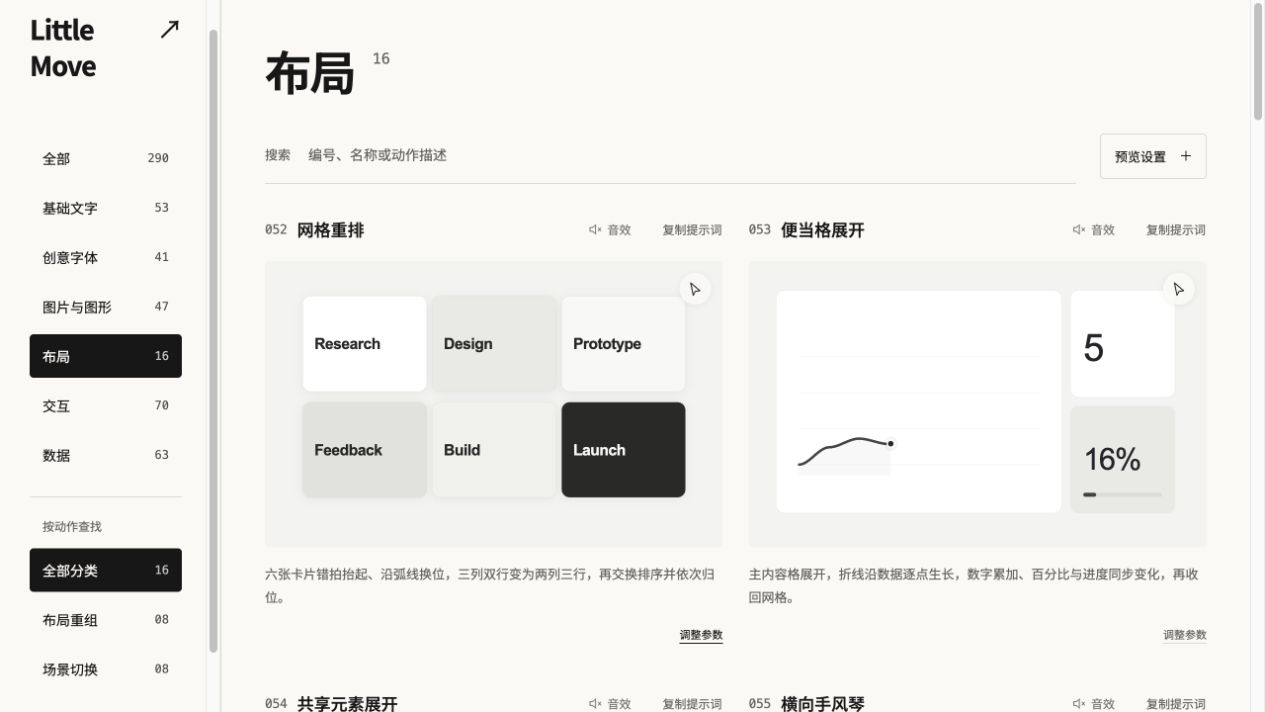
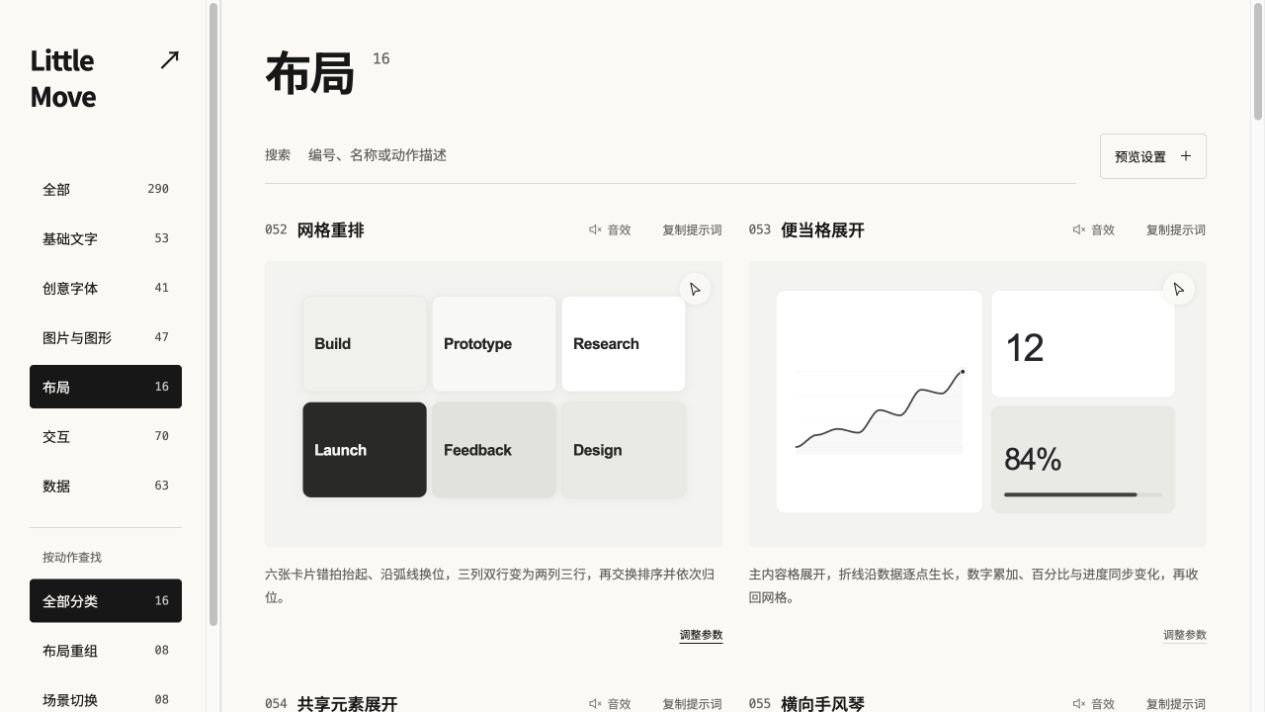
Present Little Move as a browsable product with eight real online screenshots

diff --git a/README.md b/README.md
@@ -1,26 +1,81 @@
 # Little Move
 
-一个可以看、可以调、可以复用的动效词典，收录 **290 个 Demo、30 个动作分类**，覆盖文字、图片与图形、布局、控件交互和数据变化。
+**先看动效，再说需求。**
 
-适合做网站时查找动作表达，也适合剪辑时按编号选择动效、复制简短提示词，再用 Remotion 组件生成视频素材。
+一个可以直接打开的动效词典。把“想要那种感觉”变成看得见的参考：**290 个 Demo、30 个动作分类**，覆盖文字、图片与图形、布局、控件和数据。
 
-![Little Move 网站真实预览](docs/images/site-preview.png)
+[**打开在线动效库 ↗**](https://belalee-ai.github.io/little-move/) · [看效果](#效果一览) · [怎么用](#三步找到你要的动作) · [本地运行](docs/GETTING-STARTED.md) · [完整目录](CATALOG.md)
 
-*网站实际截图，2026-10-21。示例文字、配色和数据可调整。*
+![Little Move 在线动效库](docs/images/site-preview.png)
 
-## 第一次使用
+*浏览器中的真实页面。打开链接即可查看，无需注册或安装。*
 
-这是一个本地运行的网页应用，使用 React、Vite 和 Remotion，不是浏览器插件或已安装的 Agent Skill。
+## 什么时候用
 
-准备 Node.js 22.12+（本次实测 Node.js 24）和 npm。下载依赖时需要联网；没有必须填写的 API Key、模型账号或数据库。
+| 你在做什么 | 可以怎样使用 Little Move |
+| --- | --- |
+| 做网页或产品原型 | 对比按钮、输入框、拖动、布局切换的反馈方式，找到能表达状态变化的动作。 |
+| 做视频或剪辑素材 | 为标题、图片转场、数字变化和语音波形选参考，再用本地 Remotion 组件生成素材。 |
+| 和 AI 助手描述需求 | 复制编号、名称和简短动作说明，让“弹一点、流畅一点”有具体参照。 |
+| 和团队讨论方案 | 用同一张卡片对齐动作，而不是只用文字猜彼此的意思。 |
 
-把下面这段直接发给 Codex、Claude Code 或其他有终端权限的助手：
+## 三步找到你要的动作
 
-> 请下载 https://github.com/belalee-ai/little-move 到一个新目录。
-> 先阅读 README，检查 Node.js 版本，再运行 npm ci 和 npm run dev。
-> 打开终端显示的本地地址，不要覆盖已有文件。
+**1 · 看**　按分区或动作筛选，也可以直接搜编号、名称、动作描述。每个 Demo 的编号固定，筛选后不会变化。
 
-也可以自己在终端运行：
+**2 · 调**　打开“调整参数”，修改该效果支持的文字、字体、配色、速度、图片或数据。带交互的卡片可切到“亲手试试”；音效默认关闭，可单独开启。
+
+**3 · 用**　复制卡片上的提示词，把动作讲清楚；需要精确实现时，使用对应组件与参数。网页预览与 Remotion 自动演示共用按帧计算的动作逻辑。
+
+例如，你可以这样描述：
+
+> 参考 Little Move 的 **053 · 便当格展开**：主内容格展开时，
+> 折线逐点生长，数字累加，百分比与进度同步变化；
+> 完成后平稳收回网格。沿用我的配色和内容。
+
+提示词是一份动作说明，适合用来沟通需求；不同生成平台的结果会有差异。在线页面用于预览和调参，视频渲染在本地 Remotion 中进行。
+
+## 效果一览
+
+| 文字与字形 | 图片与图形 |
+| --- | --- |
+| ![文字与字形动效](docs/images/creative.png) | ![图片揭示与叠片轮播](docs/images/images.png) |
+| 字标重组、笔画变化、空间遮挡，保留各自的字形表达。 | 图片开窗、叠片轮播、分层视差与图片对比。 |
+
+| 布局变化 | 控件反馈 |
+| --- | --- |
+| ![布局重组动效](docs/images/layout.png) | ![真实控件反馈示例](docs/images/controls.png) |
+| 网格重排、内容展开、共享元素与场景切换。 | 按钮、输入、开关、标签页，以及拖动和选择反馈。 |
+
+| 数据变化 | 语音交互 |
+| --- | --- |
+| ![数字与图表动效](docs/images/data.png) | ![语音助手光球状态](docs/images/voice.png) |
+| 数字滚动、图表生长、占比进度、数据重排与矩阵显现。 | 聆听、思考、说话等状态，以及波形与播放进度。 |
+
+<details>
+<summary>再看基础文字与参数设置</summary>
+
+![基础文字动效](docs/images/text.png)
+
+![可调整参数](docs/images/settings.png)
+
+</details>
+
+*以上均为当前版本的真实界面截图。截图展示字形、构图与操作入口；完整运动节奏请在[在线动效库](https://belalee-ai.github.io/little-move/)查看。*
+
+## 里面有多少种
+
+| 文字 | 创意字体 | 图片与图形 | 布局 | 交互 | 数据 |
+| ---: | ---: | ---: | ---: | ---: | ---: |
+| 53 | 41 | 47 | 16 | 70 | 63 |
+
+30 个动作分类均不少于 8 项。所有卡片支持搜索、预览与简短动作说明；具体可调参数依各效果而定。[查看 001–290 完整目录](CATALOG.md)。
+
+## 想把它用进自己的项目
+
+**直接查用**：[打开网站](https://belalee-ai.github.io/little-move/)，找到 Demo，复制编号、名称和提示词。
+
+**本地运行**：准备 Node.js 22.12+ 和 npm（本次实测 Node.js 24），运行：
 
 ```bash
 git clone https://github.com/belalee-ai/little-move.git
@@ -29,71 +84,24 @@ npm ci
 npm run dev -- --port 3108
 ```
 
-打开终端返回的地址，通常为 http://127.0.0.1:3108/ 。页面需要由开发服务器提供，不能直接双击 index.html。
+也可以把这句话发给有终端权限的 AI 助手：
 
-1. 按分区、动作类别筛选，或搜索编号、名称、动作描述。
-2. 查看卡片预览；支持交互的卡片可切换“亲手试试”。
-3. 点“调整参数”修改该效果支持的文字、字体、颜色、速度、图片或数据。
-4. 点“复制提示词”获取编号、名称和动作说明。提示词描述视觉机制，不保证不同 AI 视频平台生成完全相同的结果。
-5. 音效默认关闭，可在每张卡片标题旁选择和试听；同时只开启一张卡片。
+> 请阅读 https://github.com/belalee-ai/little-move 的 README，
+> 在新目录安装并启动这个项目，然后帮我找到适合当前需求的动效。
+> 如果要修改，请沿用原有编号和动作机制。
 
-## 里面有什么
+**定制组件或导出视频**：见[安装、定制与视频复用](docs/GETTING-STARTED.md)。这是一个 React / Remotion 应用，不是安装到 Agent 后自动生效的 Skill；前 30 种基础文字另有 ChatCut 载荷生成器，后续 Demo 未全部验证 ChatCut 接入。
 
-| 分区 | 数量 |
-| --- | ---: |
-| 基础文字 | 53 |
-| 创意字体 | 41 |
-| 图片与图形 | 47 |
-| 布局 | 16 |
-| 交互 | 70 |
-| 数据 | 63 |
+## 使用前了解这些
 
-每张卡片有稳定编号，筛选后不重新编号。30 个动作类别均不少于 8 项。完整清单见 [CATALOG.md](CATALOG.md)。
+- 语音、人机验证、苹果交互等是本地样式演示，不连接真实录音、验证码服务或系统设置。
+- 图片、音频替换由浏览器本地读取；没有必须配置的模型账号、API Key 或数据库。首次打开会加载字体和当前预览所需素材。
+- 支持系统“减少动态效果”；在可见范围内播放预览，音效由用户主动开启。
+- 自有代码按 [MIT](LICENSE) 提供；字体、摄影和 Remotion 依赖遵循各自许可，详见[许可与素材](docs/LICENSING.md)。
+- 验证范围见[发布检查](docs/RELEASE-CHECK.md)。未声称所有浏览器、设备、参数组合或 Agent 都已完整实测。
 
-![实际动效预览](docs/images/motion-preview.png)
+## 参与补充
 
-*真实网站画面；用于展示字形、构图和动效机制，静态截图不能呈现完整运动节奏。*
+发现裁切、卡顿、动作不明显，欢迎[提交 Issue](https://github.com/belalee-ai/little-move/issues)，附 **编号、浏览器、复现步骤或录屏**。
 
-## 用于剪辑与二次开发
-
-网页预览和 Remotion 视频组合共用按帧计算的动作逻辑。手动交互用于网页体验；视频渲染使用预设自动演示过程，不会录制鼠标操作。
-
-```bash
-# 打开 Remotion Studio，选择组合与参数
-npm run studio
-
-# 检查并构建静态网页
-npm run check
-npm run build
-```
-
-网页构建结果在 dist/。Remotion CLI 的视频导出需要可用的浏览器和渲染环境；首次渲染可能下载浏览器或相关运行组件。字体和默认示例素材随源码提供。
-
-- 基础文字 001–030：WordByWord、Typewriter 等独立命名组合，具体 ID 以 Studio 清单为准。
-- 创意字体 031–047、060–068：Study031 等组合。
-- 其余 Demo：Demo048、Demo073 等组合。
-- 参数下载只在对应设置提供时可用，不把所有 Demo 视为同一个参数结构。
-- 前 30 种基础文字另有 ChatCut 载荷生成器，后续所有 Demo 并未全部验证过 ChatCut 接入。
-
-```bash
-node scripts/chatcut-payload.mjs --effect 008 \
-  --text '把重点讲清楚' --out chatcut/current.json
-```
-
-应用代码位于 src/，默认素材在 public/，检查脚本在 scripts/。用自己的图片或音频替换时，需自行具备素材使用权限。
-
-## 运行范围与验证
-
-本次在 macOS、Node.js 24 和本地浏览器中验证。Windows、Linux 以及不同浏览器的完整使用尚未逐项实测；系统回退字体可能产生字形差异。Codex 与 Claude Code 只是可帮助安装和修改项目的助手，没有另行声称其插件安装、Skill 触发或完整客户端兼容性已验证。
-
-语音、人机验证和苹果交互都是本地样式演示，不接入真实录音、验证码服务、系统设置或账号业务。只有 101 等支持替换声音的示例会在浏览器本地读取所选文件，不需要上传到服务端。
-
-当前验证范围见 [发布检查](docs/RELEASE-CHECK.md)。后续补充按 [收集机制](docs/intake/WORKFLOW.md)手动启动，不设数量上限，未设置定时任务。
-
-若页面空白，先检查终端错误与 Node.js 版本；若端口被占用，使用终端实际给出的地址。字体或图片未加载时检查网络面板与 public/ 文件是否完整，避免只复制 src/。
-
-## 许可与来源
-
-自有代码按 [MIT](LICENSE) 提供。字体、摄影和 Remotion 等依赖保留各自许可，**不能将整套项目描述为全部 MIT 或所有商业用途免费**。
-
-请先读 [许可说明](docs/LICENSING.md)及 [第三方来源](THIRD-PARTY-NOTICES.md)。公开仓库排除了历史个人照片、本机路径、私有剪辑工程地址、依赖目录与旧预览产物。
+建议新动作时，说明适用场景与动作机制；尽量附原始演示链接和素材来源。我们关注动作上的差异，而不只是更换颜色。补充工作流见[收集机制](docs/intake/WORKFLOW.md)，当前手动启动、不设数量上限、没有定时采集任务。

diff --git a/docs/GETTING-STARTED.md b/docs/GETTING-STARTED.md
@@ -1,0 +1,84 @@
+# 安装、定制与视频复用
+
+只想查找动效，可以直接打开 [在线动效库](https://belalee-ai.github.io/little-move/)，无需安装。需要改源码、定制组件或渲染视频时，再使用下方本地开发路径。
+
+## 第一次使用
+
+这是一个支持本地运行的网页应用，使用 React、Vite 和 Remotion，不是浏览器插件或已安装的 Agent Skill。
+
+准备 Node.js 22.12+（本次实测 Node.js 24）和 npm。下载依赖时需要联网；没有必须填写的 API Key、模型账号或数据库。
+
+把下面这段直接发给 Codex、Claude Code 或其他有终端权限的助手：
+
+> 请下载 https://github.com/belalee-ai/little-move 到一个新目录。
+> 先阅读 README，检查 Node.js 版本，再运行 npm ci 和 npm run dev。
+> 打开终端显示的本地地址，不要覆盖已有文件。
+
+也可以自己在终端运行：
+
+```bash
+git clone https://github.com/belalee-ai/little-move.git
+cd little-move
+npm ci
+npm run dev -- --port 3108
+```
+
+打开终端返回的地址，通常为 http://127.0.0.1:3108/ 。页面需要由开发服务器提供，不能直接双击 index.html。
+
+1. 按分区、动作类别筛选，或搜索编号、名称、动作描述。
+2. 查看卡片预览；支持交互的卡片可切换“亲手试试”。
+3. 点“调整参数”修改该效果支持的文字、字体、颜色、速度、图片或数据。
+4. 点“复制提示词”获取编号、名称和动作说明。提示词描述视觉机制，不保证不同 AI 视频平台生成完全相同的结果。
+5. 音效默认关闭，可在每张卡片标题旁选择和试听；同时只开启一张卡片。
+
+## 用于剪辑与二次开发
+
+网页预览和 Remotion 视频组合共用按帧计算的动作逻辑。手动交互用于网页体验；视频渲染使用预设自动演示过程，不会录制鼠标操作。
+
+```bash
+# 打开 Remotion Studio，选择组合与参数
+npm run studio
+
+# 检查并构建静态网页
+npm run check
+npm run build
+```
+
+网页构建结果在 dist/。Remotion CLI 的视频导出需要可用的浏览器和渲染环境；首次渲染可能下载浏览器或相关运行组件。字体和默认示例素材随源码提供。
+
+- 基础文字 001–030：WordByWord、Typewriter 等独立命名组合，具体 ID 以 Studio 清单为准。
+- 创意字体 031–047、060–068：Study031 等组合。
+- 其余 Demo：Demo048、Demo073 等组合。
+- 参数下载只在对应设置提供时可用，不把所有 Demo 视为同一个参数结构。
+- 前 30 种基础文字另有 ChatCut 载荷生成器，后续所有 Demo 并未全部验证过 ChatCut 接入。
+
+```bash
+node scripts/chatcut-payload.mjs --effect 008 \
+  --text '把重点讲清楚' --out chatcut/current.json
+```
+
+应用代码位于 src/，默认素材在 public/，检查脚本在 scripts/。用自己的图片或音频替换时，需自行具备素材使用权限。
+
+## 运行范围与验证
+
+本次在 macOS、Node.js 24 和本地浏览器中验证。Windows、Linux 以及不同浏览器的完整使用尚未逐项实测；系统回退字体可能产生字形差异。Codex 与 Claude Code 只是可帮助安装和修改项目的助手，没有另行声称其插件安装、Skill 触发或完整客户端兼容性已验证。
+
+语音、人机验证和苹果交互都是本地样式演示，不接入真实录音、验证码服务、系统设置或账号业务。只有 101 等支持替换声音的示例会在浏览器本地读取所选文件，不需要上传到服务端。
+
+当前验证范围见 [发布检查](RELEASE-CHECK.md)。后续补充按 [收集机制](intake/WORKFLOW.md)手动启动，不设数量上限，未设置定时任务。
+
+若页面空白，先检查终端错误与 Node.js 版本；若端口被占用，使用终端实际给出的地址。字体或图片未加载时检查网络面板与 public/ 文件是否完整，避免只复制 src/。
+
+
+## 更新与部署
+
+本项目通过 GitHub Actions 构建并发布到 GitHub Pages。main 分支中的网页代码或素材更新会触发重新部署；仅修改文档与截图不会重复部署应用。构建检查通过后才发布。
+
+```bash
+# 本地预览生产构建（保持与 Pages 相同的路径）
+DEPLOY_BASE=/little-move/ npm run build
+node scripts/check-web-build.mjs --base /little-move/
+DEPLOY_BASE=/little-move/ npx vite preview
+```
+
+项目路径由 DEPLOY_BASE 决定，本地开发默认使用 /。字体、图片、音效与动态脚本必须跟随相同路径。Remotion Studio 和视频渲染仍使用自身资源基路径。

diff --git a/docs/RELEASE-CHECK.md b/docs/RELEASE-CHECK.md
@@ -25,4 +25,15 @@
 - 公开仓库：https://github.com/belalee-ai/little-move ，main 分支。未登录访问返回 HTTP 200。
 - GitHub 页面上实际打开 README，确认文字与截图正常渲染。
 - 从上述 GitHub 地址重新浅克隆到独立目录，运行 npm ci、npm run check 和 npm run build：均通过。没有复用该目录之外的 node_modules。
-- 未部署 GitHub Pages 或其他在线演示站点；当前发布的是可下载、可本地运行的源码仓库。
+- 首次源码发布时未部署在线演示；此状态已由下方的在线部署记录替代。
+
+## 在线演示与产品说明（2026-10-21）
+
+- 在线地址：https://belalee-ai.github.io/little-move/ 。GitHub Pages 已启用，main 代码更新经 GitHub Actions 检查和构建后部署。
+- 已完成部署：af0b182e20b6d4a508a0ab8b823a6dcfb5c295c5；对应运行 https://github.com/belalee-ai/little-move/actions/runs/39572588397 成功。后续仅文档更新不会重复部署网页。
+- 本次类型检查、构建、音效检查和部署路径检查通过。HTML、CSS、字体、图片和音效统一使用 /little-move/；本地开发默认 /，Remotion 渲染保持自身基路径。
+- 默认预览 initiallyMuted，用户开启音效时由原音效入口解除静音，避免首次访问等待音频许可停在第 0 帧。
+- 在线浏览器已检查图片分类资源加载、创意字形、布局、图表、语音光球、参数面板，以及 069 按钮真实点击后的 Saved 反馈。
+- 新增 8 张真实线上截图：creative、images、layout、controls、data、voice、text、settings；位于 docs/images/，主图复用本次 layout 画面。截图保留界面上下文，不将截图当作运动流畅性的证明。
+- README 以在线体验、使用场景、三步查用、分类效果和复用方式组织；本地环境、开发与部署细节放在 GETTING-STARTED.md。
+- 在新部署页面刷新后没有进行页面点击，观察到 001 预览自动推进到 0:02，字体加载成功，确认首次访问静音自动播放修复生效。
